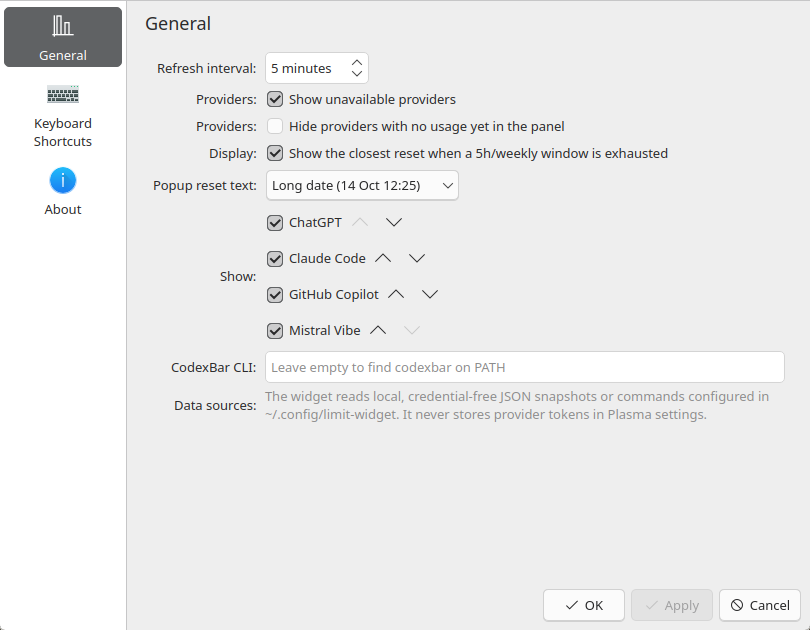
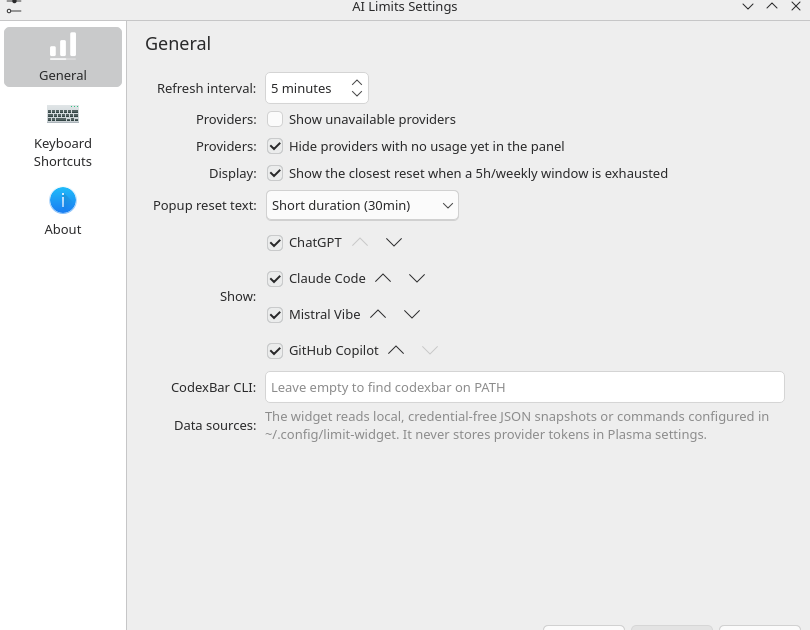
Carry the product mark in the settings entry, captured from the real dialog
The General entry takes the package's own mark back: a ConfigCategory
icon does load a package file in the settings dialog after all — the
earlier stock-icon detour rested on a plasmawindowed test, whose
engine is more restricted than plasmashell's own. The settings
pictures are captured from the live dialog in both themes, so they
show the mark exactly as the panel does.

Generated by Mistral Vibe.

diff --git a/package/contents/config/config.qml b/package/contents/config/config.qml
@@ -8,11 +8,8 @@ import org.kde.plasma.configuration
 ConfigModel {
     ConfigCategory {
         name: i18n("General")
-        // A ConfigCategory icon crosses into the settings dialog as a plain
-        // string, which only resolves as a theme icon name — the package's
-        // own mark cannot load there. This is the closest stock one: the
-        // same ascending bars over a baseline.
-        icon: "office-chart-bar"
+        // The product mark, the same one the popup's header carries.
+        icon: Qt.resolvedUrl("../icons/ailimits-symbolic.svg")
         // The source is resolved against contents/ui, not the package root.
         source: "config/ConfigGeneral.qml"
     }

diff --git a/CHANGELOG.md b/CHANGELOG.md
@@ -2,12 +2,10 @@
 
 ## Unreleased
 
-- New: the popup's header carries the product's own mark — the bars over
-  the gauge track, the same shapes as the store logo and hero — instead
-  of the stock view-statistics icon. The settings page's General entry
-  moves to office-chart-bar, the same ascending bars as a stock icon:
-  ConfigCategory icons resolve only as theme names, so the package's
-  own mark cannot load there.
+- New: the popup's header and the settings page's General entry carry
+  the product's own mark — the bars over the gauge track, the same
+  shapes as the store logo and hero — instead of the stock
+  view-statistics icon.
 - Fixed: the settings page's first option sat flush against the top edge.
   The page root is a KCM.SimpleKCM now, the same as the settings pages of
   Plasma's own widgets, which brings the standard margins — and scrolling,
